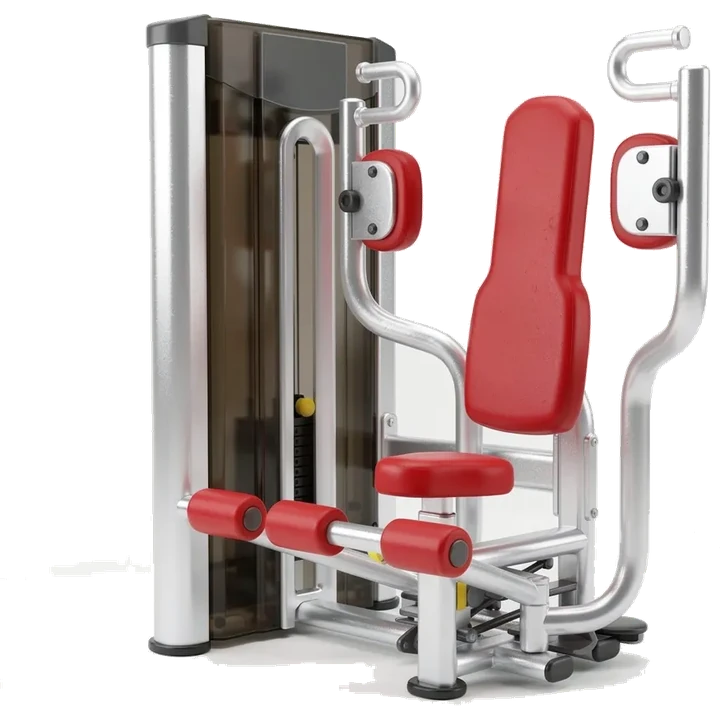
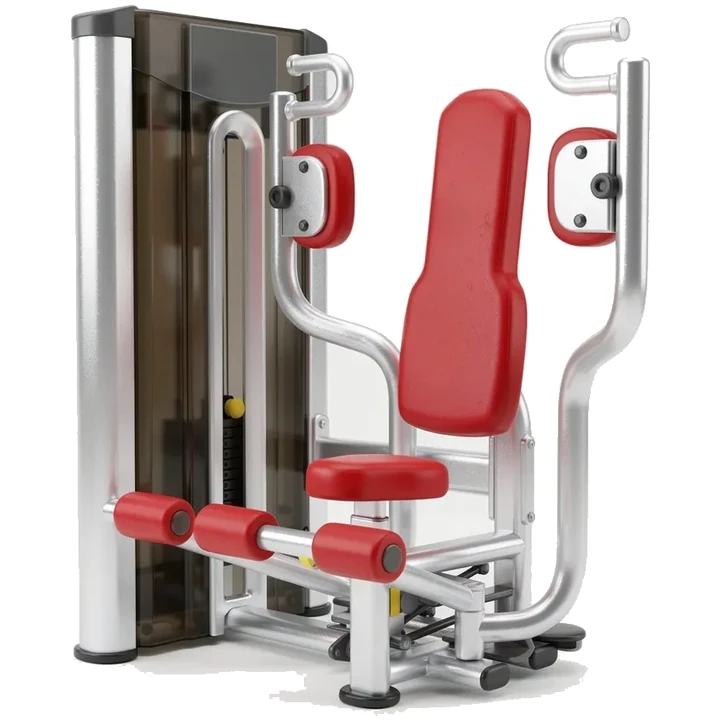
feat(catalog): add chest and shoulder machines inside CORE and BRAZOS
The group taxonomy stays coarse: chest exercises belong to CORE and shoulder exercises to BRAZOS. Adds Aperturas en contractora and Press de pecho en maquina to CORE, and Press de hombros en maquina to BRAZOS, each with its machine render. Assets are re-exported flattened on white (flood fill plus a near-white grow pass) and the log screen card is now plain white so the renders sit cleanly between the progress bar and the set list.

diff --git a/src/app/core/exercise-catalog.ts b/src/app/core/exercise-catalog.ts
@@ -6,6 +6,8 @@ export const EXERCISES: readonly Exercise[] = [
   { id: 'core-crunch-polea', name: 'Crunch en polea alta', group: 'CORE' },
   { id: 'core-rueda', name: 'Rueda abdominal', group: 'CORE' },
   { id: 'core-hollow', name: 'Hollow hold', group: 'CORE' },
+  { id: 'core-contractora', name: 'Aperturas en contractora', group: 'CORE', image: '/exercises/butterfly.webp' },
+  { id: 'core-press-pecho', name: 'Press de pecho en máquina', group: 'CORE', image: '/exercises/chest-press.webp' },
 
   { id: 'piernas-sentadilla', name: 'Sentadilla con barra', group: 'PIERNAS' },
   { id: 'piernas-prensa', name: 'Prensa de piernas', group: 'PIERNAS' },
@@ -19,6 +21,7 @@ export const EXERCISES: readonly Exercise[] = [
   { id: 'brazos-press-frances', name: 'Press francés', group: 'BRAZOS' },
   { id: 'brazos-jalon-triceps', name: 'Jalón de tríceps en polea', group: 'BRAZOS' },
   { id: 'brazos-fondos', name: 'Fondos en paralelas', group: 'BRAZOS' },
+  { id: 'brazos-press-hombros', name: 'Press de hombros en máquina', group: 'BRAZOS', image: '/exercises/shoulder-press.webp' },
 ];
 
 export const GROUP_ORDER: readonly ExerciseGroup[] = ['CORE', 'PIERNAS', 'BRAZOS'];

diff --git a/src/app/features/train/exercise-log.page.scss b/src/app/features/train/exercise-log.page.scss
@@ -45,21 +45,19 @@
   align-items: center;
   justify-content: center;
   margin: 2px 0 0;
-  padding: 4px 6px;
+  padding: 2px;
   overflow: hidden;
   border: 1px solid var(--line);
   border-radius: 22px;
-  background:
-    radial-gradient(circle at 50% 12%, #ffffff 0%, #f3f7ff 55%, #e6ecff 100%);
-  box-shadow: inset 0 1px 0 rgba(255, 255, 255, 0.9);
+  background: #fff;
+  box-shadow: var(--shadow-card);
 }
 
 .exercise-hero img {
   display: block;
   width: 100%;
-  max-height: 256px;
+  max-height: 248px;
   object-fit: contain;
-  filter: drop-shadow(0 14px 20px rgba(10, 17, 48, 0.14));
 }
 
 .set {
